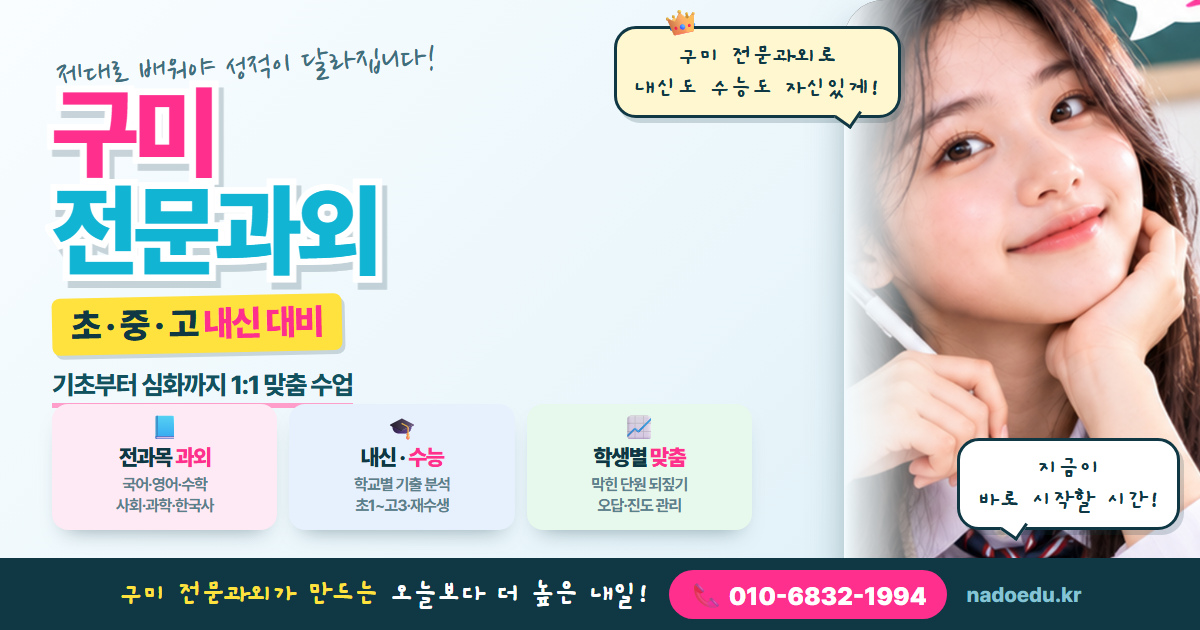
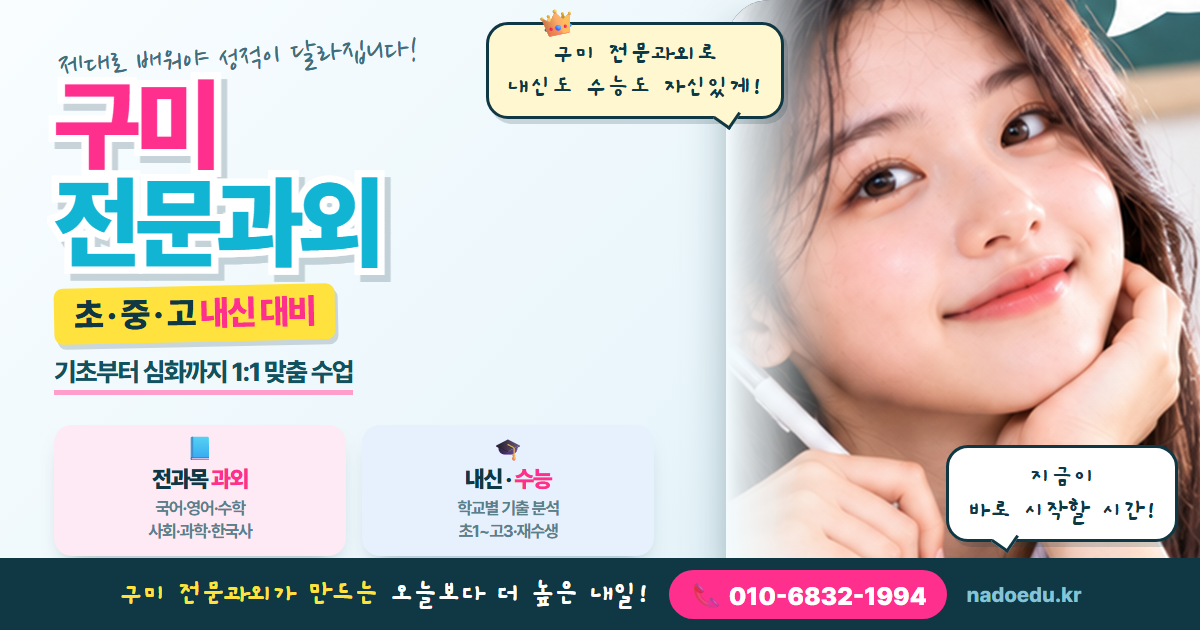
og 배너 수정: 인물 확대·좌측 이동, 카드 2개로 축소
여백이 넓다는 지적에 따라 사진 폭을 356→474 로 넓혀 왼쪽으로
당기고, 학생별 맞춤 카드를 빼고 2개만 남겼다. 타이틀·카드
세로 간격도 겹치지 않게 다시 잡았다.

diff --git a/tools/og배너.html b/tools/og배너.html
@@ -11,45 +11,45 @@
        background:linear-gradient(135deg,#f9fdff 0%,#eaf6fb 55%,#d9edf5 100%)}
 
   /* 오른쪽 인물 사진 */
-  .photo{position:absolute;right:0;top:0;width:356px;height:630px;border-radius:40px 0 0 40px;
-         background-image:url("girl.png");background-size:cover;background-position:center top;
-         box-shadow:-22px 0 44px -34px rgba(15,55,68,.55)}
-  .photo::before{content:"";position:absolute;left:0;top:0;width:96px;height:100%;border-radius:40px 0 0 40px;
-         background:linear-gradient(90deg,rgba(243,251,254,1) 0%,rgba(243,251,254,.72) 38%,rgba(243,251,254,0) 100%)}
+  .photo{position:absolute;right:0;top:0;width:474px;height:630px;border-radius:44px 0 0 44px;
+         background-image:url("girl.png");background-size:cover;background-position:center 6%;
+         box-shadow:-24px 0 48px -34px rgba(15,55,68,.5)}
+  .photo::before{content:"";position:absolute;left:0;top:0;width:112px;height:100%;border-radius:44px 0 0 44px;
+         background:linear-gradient(90deg,rgba(243,251,254,1) 0%,rgba(243,251,254,.7) 40%,rgba(243,251,254,0) 100%)}
 
   /* 왼쪽 글 */
-  .title{position:absolute;left:52px;top:42px;width:720px}
-  .kicker{font-family:"Nanum Pen Script",cursive;font-size:38px;color:#3f6f7d;transform:rotate(-2.5deg);line-height:1;margin-left:4px}
-  .big{font-size:100px;font-weight:900;letter-spacing:-5px;line-height:.98;margin-top:4px;
-       -webkit-text-stroke:13px #fff;paint-order:stroke fill;
-       filter:drop-shadow(5px 7px 0 rgba(15,55,68,.2))}
+  .title{position:absolute;left:54px;top:34px;width:680px}
+  .kicker{font-family:"Nanum Pen Script",cursive;font-size:36px;color:#3f6f7d;transform:rotate(-2.5deg);line-height:1;margin-left:4px}
+  .big{font-size:100px;font-weight:900;letter-spacing:-5px;line-height:.98;margin-top:6px;
+       -webkit-text-stroke:14px #fff;paint-order:stroke fill;
+       filter:drop-shadow(6px 7px 0 rgba(15,55,68,.2))}
   .big .l1{color:#ff2f8e;display:block}
   .big .l2{color:#12b4d4;display:block}
-  .band{display:inline-block;margin-top:16px;padding:7px 19px 9px;background:#ffe23d;border-radius:8px;
-        transform:rotate(-1.2deg);font-size:35px;font-weight:900;letter-spacing:-1.8px;color:#0f3744;
-        box-shadow:3px 4px 0 rgba(15,55,68,.18)}
+  .band{display:inline-block;margin-top:14px;padding:7px 20px 9px;background:#ffe23d;border-radius:9px;
+        transform:rotate(-1.2deg);font-size:34px;font-weight:900;letter-spacing:-2px;color:#0f3744;
+        box-shadow:3px 5px 0 rgba(15,55,68,.18)}
   .band b{color:#ff2f8e}
-  .sub{margin-top:16px;font-size:26px;font-weight:800;letter-spacing:-1.3px;color:#12525f}
+  .sub{margin-top:14px;font-size:26px;font-weight:800;letter-spacing:-1.4px;color:#12525f}
   .sub span{border-bottom:5px solid #ff9ecb;padding-bottom:3px}
 
-  .cards{position:absolute;left:52px;bottom:100px;width:700px;display:grid;grid-template-columns:repeat(3,1fr);gap:12px}
-  .card{border-radius:16px;padding:12px 10px 13px;text-align:center;box-shadow:0 12px 22px -14px rgba(15,55,68,.5)}
-  .c1{background:#fdeaf4}.c2{background:#e6f1fd}.c3{background:#e7f8ec}
+  .cards{position:absolute;left:54px;bottom:74px;width:600px;display:grid;grid-template-columns:repeat(2,1fr);gap:16px}
+  .card{border-radius:18px;padding:12px 12px 13px;text-align:center;box-shadow:0 12px 22px -14px rgba(15,55,68,.5)}
+  .c1{background:#fdeaf4}.c2{background:#e6f1fd}
   .card .ic{font-size:24px;line-height:1}
-  .card .t{margin-top:4px;font-size:22px;font-weight:900;letter-spacing:-1.3px;color:#0f3744}
+  .card .t{margin-top:4px;font-size:23px;font-weight:900;letter-spacing:-1.4px;color:#0f3744}
   .card .t em{font-style:normal;color:#ff2f8e}
-  .card .d{margin-top:4px;font-size:16px;font-weight:700;letter-spacing:-.9px;color:#59808b;line-height:1.35}
+  .card .d{margin-top:4px;font-size:17px;font-weight:700;letter-spacing:-1px;color:#59808b;line-height:1.35}
 
-  .bub{position:absolute;background:#fff;border:3px solid #0f3744;border-radius:22px;padding:11px 17px;
-       font-family:"Gaegu",cursive;font-weight:700;font-size:26px;color:#0f3744;line-height:1.24;text-align:center;
+  .bub{position:absolute;background:#fff;border:3px solid #0f3744;border-radius:22px;padding:12px 18px;
+       font-family:"Gaegu",cursive;font-weight:700;font-size:27px;color:#0f3744;line-height:1.24;text-align:center;
        box-shadow:4px 5px 0 rgba(15,55,68,.18)}
   .bub::after{content:"";position:absolute;width:17px;height:17px;background:inherit;
     border-right:3px solid #0f3744;border-bottom:3px solid #0f3744;transform:rotate(35deg)}
-  .b1{left:614px;top:26px;background:#fff7cf}
-  .b1::after{background:#fff7cf;right:40px;bottom:-10px}
-  .b2{right:20px;bottom:100px}
-  .b2::after{left:44px;bottom:-10px}
-  .crown{position:absolute;left:660px;top:-2px;font-size:30px;transform:rotate(-12deg);z-index:2}
+  .b1{left:486px;top:22px;background:#fff7cf}
+  .b1::after{background:#fff7cf;right:44px;bottom:-10px}
+  .b2{right:22px;bottom:88px}
+  .b2::after{left:46px;bottom:-10px}
+  .crown{position:absolute;left:534px;top:-4px;font-size:32px;transform:rotate(-12deg);z-index:2}
 
   .ribbon{position:absolute;left:0;right:0;bottom:0;height:72px;background:#0f3744;
           display:flex;align-items:center;justify-content:center;gap:20px}
@@ -76,7 +76,6 @@
 <div class="cards">
   <div class="card c1"><div class="ic">📘</div><div class="t">전과목 <em>과외</em></div><div class="d">국어·영어·수학<br/>사회·과학·한국사</div></div>
   <div class="card c2"><div class="ic">🎓</div><div class="t">내신 · <em>수능</em></div><div class="d">학교별 기출 분석<br/>초1~고3·재수생</div></div>
-  <div class="card c3"><div class="ic">📈</div><div class="t">학생별 <em>맞춤</em></div><div class="d">막힌 단원 되짚기<br/>오답·진도 관리</div></div>
 </div>
 
 <div class="ribbon">
